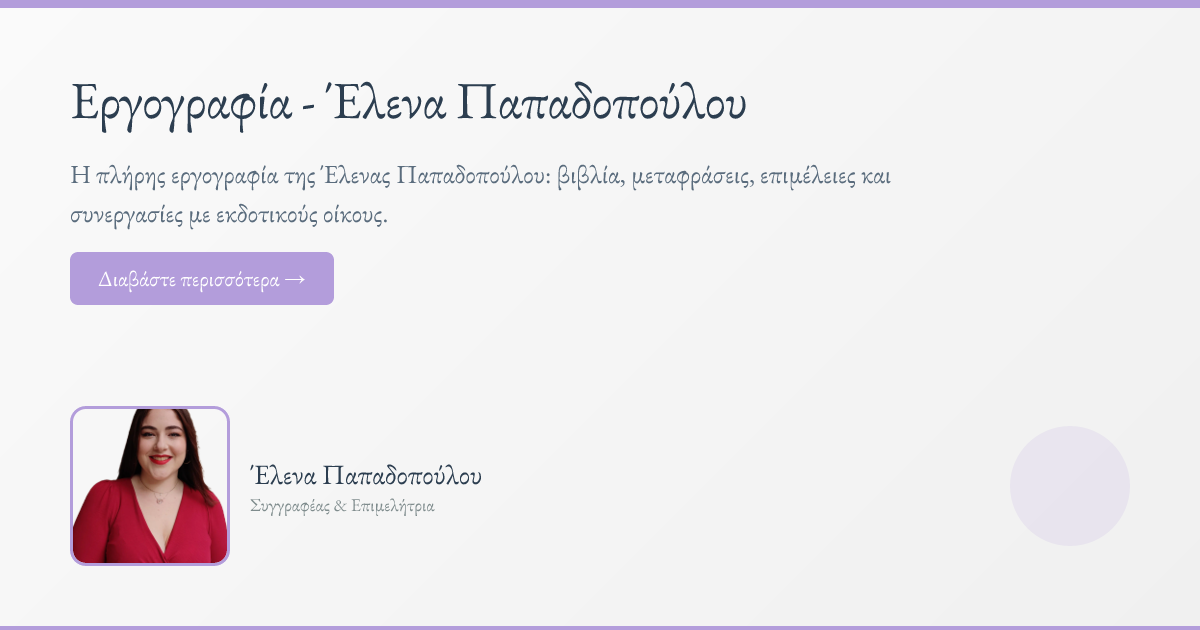
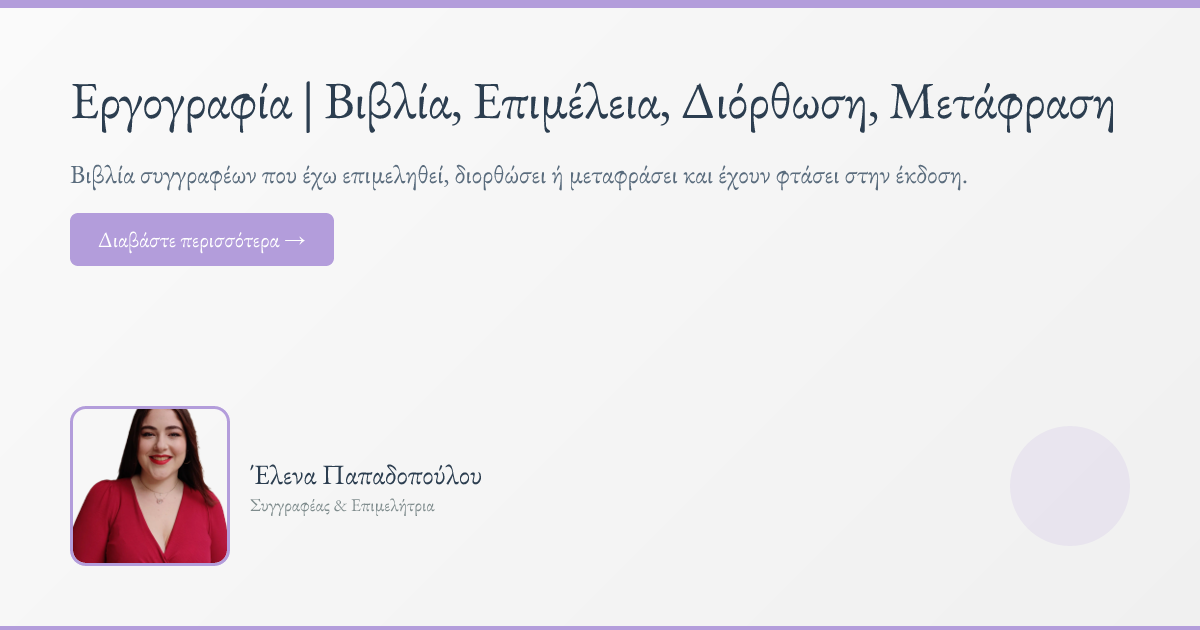
feat: update OG image generation script and modify sitemap lastmod dates

Changed region(s): [[0.2467, 0.1206, 0.925, 0.2111], [0.0308, 0.3317, 0.3392, 0.4825], [0.0617, 0.2413, 0.8017, 0.3016]]

diff --git a/scripts/generate-og-images.js b/scripts/generate-og-images.js
@@ -347,6 +347,7 @@ async function main() {
   const sitePath = join(rootDir, 'public', 'content', 'site.json')
   const siteData = JSON.parse(await readFile(sitePath, 'utf-8'))
   const siteName = siteData.seo?.siteName || 'Έλενα Παπαδοπούλου'
+  const pagesMeta = siteData.seo?.pages ?? {}
 
   // Load home data for intro image (used for non-post pages)
   const homePath = join(rootDir, 'public', 'content', 'home.json')
@@ -424,60 +425,58 @@ async function main() {
   // Generate OG images for main pages
   console.log('\n📄 Generating page-specific OG images...')
   
-  // Home page
-  const homeOgPath = join(outputDir, 'home.png')
-  await generateOgImage(
-    'Έλενα Παπαδοπούλου - Συγγραφέας & Επιμελήτρια',
-    'Υπηρεσίες επιμέλειας κειμένων, αξιολόγησης χειρογράφων και συμβουλευτικής για συγγραφείς. Επαγγελματική καθοδήγηση προς έκδοση.',
-    siteName,
-    homeOgPath,
-    fontData,
-    introImageDataUri
-  )
+  const getPageMeta = (pageKey, fallbackTitle, fallbackDescription) => {
+    const page = pagesMeta[pageKey]
+    return {
+      title: page?.title || fallbackTitle,
+      description: page?.description || fallbackDescription,
+    }
+  }
 
-  // Timeline page
-  const timelineOgPath = join(outputDir, 'timeline.png')
-  await generateOgImage(
-    'Εργογραφία - Έλενα Παπαδοπούλου',
-    'Η πλήρης εργογραφία της Έλενας Παπαδοπούλου: βιβλία, μεταφράσεις, επιμέλειες και συνεργασίες με εκδοτικούς οίκους.',
-    siteName,
-    timelineOgPath,
-    fontData,
-    introImageDataUri
-  )
+  const pageDefinitions = [
+    {
+      key: 'home',
+      filename: 'home.png',
+      fallbackTitle: 'Έλενα Παπαδοπούλου - Συγγραφέας & Επιμελήτρια',
+      fallbackDescription:
+        'Υπηρεσίες επιμέλειας κειμένων, αξιολόγησης χειρογράφων και συμβουλευτικής για συγγραφείς. Επαγγελματική καθοδήγηση προς έκδοση.',
+    },
+    {
+      key: 'timeline',
+      filename: 'timeline.png',
+      fallbackTitle: 'Εργογραφία - Έλενα Παπαδοπούλου',
+      fallbackDescription:
+        'Η πλήρης εργογραφία της Έλενας Παπαδοπούλου: βιβλία, μεταφράσεις, επιμέλειες και συνεργασίες με εκδοτικούς οίκους.',
+    },
+    {
+      key: 'book',
+      filename: 'book.png',
+      fallbackTitle: 'Ένα μόνο γράμμα - Έλενα Παπαδοπούλου',
+      fallbackDescription:
+        "Ανακαλύψτε το βιβλίο 'Ένα μόνο γράμμα' της Έλενας Παπαδοπούλου. Διαθέσιμο στα μεγαλύτερα βιβλιοπωλεία.",
+    },
+    {
+      key: 'moonlight',
+      filename: 'moonlight.png',
+      fallbackTitle: 'Moonlight Tales - Έλενα Παπαδοπούλου',
+      fallbackDescription:
+        'Moonlight Tales: Μια συλλογή ιστοριών από την Έλενα Παπαδοπούλου που εξερευνά το μυστήριο και τη μαγεία.',
+    },
+    {
+      key: 'paintedBooks',
+      filename: 'painted-books.png',
+      fallbackTitle: 'Ζωγραφισμένα Βιβλία - Έλενα Παπαδοπούλου',
+      fallbackDescription:
+        'Ανακαλύψτε τα ζωγραφισμένα βιβλία: μια μοναδική συλλογή όπου η τέχνη συναντά τη λογοτεχνία.',
+    },
+  ]
 
-  // Book page
-  const bookOgPath = join(outputDir, 'book.png')
-  await generateOgImage(
-    'Ένα μόνο γράμμα - Έλενα Παπαδοπούλου',
-    'Ανακαλύψτε το βιβλίο \'Ένα μόνο γράμμα\' της Έλενας Παπαδοπούλου. Διαθέσιμο στα μεγαλύτερα βιβλιοπωλεία.',
-    siteName,
-    bookOgPath,
-    fontData,
-    introImageDataUri
-  )
+  for (const page of pageDefinitions) {
+    const { title, description } = getPageMeta(page.key, page.fallbackTitle, page.fallbackDescription)
+    const pageOgPath = join(outputDir, page.filename)
 
-  // Moonlight page
-  const moonlightOgPath = join(outputDir, 'moonlight.png')
-  await generateOgImage(
-    'Moonlight Tales - Έλενα Παπαδοπούλου',
-    'Moonlight Tales: Μια συλλογή ιστοριών από την Έλενα Παπαδοπούλου που εξερευνά το μυστήριο και τη μαγεία.',
-    siteName,
-    moonlightOgPath,
-    fontData,
-    introImageDataUri
-  )
-
-  // Painted Books page
-  const paintedBooksOgPath = join(outputDir, 'painted-books.png')
-  await generateOgImage(
-    'Ζωγραφισμένα Βιβλία - Έλενα Παπαδοπούλου',
-    'Ανακαλύψτε τα ζωγραφισμένα βιβλία: μια μοναδική συλλογή όπου η τέχνη συναντά τη λογοτεχνία.',
-    siteName,
-    paintedBooksOgPath,
-    fontData,
-    introImageDataUri
-  )
+    await generateOgImage(title, description, siteName, pageOgPath, fontData, introImageDataUri)
+  }
 
   console.log('\n✅ OG image generation complete!')
 }
